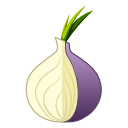
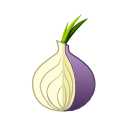
stripe is now hidden by default unless js is present, updated onion graphic

diff --git a/index.html b/index.html
@@ -115,6 +115,9 @@ display: block; min-height: 35px; padding-top: 10px;
 #stripeTxt {
  width: 60px;
  }
+.stripe {
+display: none;
+}
 </style>
 </head>
 <body>
@@ -176,6 +179,7 @@ portion of your purchase is donated to help keep us working.</p>
       var stripeSub = jQuery('option[name="stripeSub"]:selected').val();
       var stripeCur = jQuery('option[name="stripeCur"]:selected').val();
       var stripeSym;
+      jQuery('.stripe').css('display', 'initial');
       if( stripeSub != 0 ) {
 	  jQuery('.stripeTxt').css('visibility', 'hidden');
 	  jQuery('.stripeCur').css('visibility', 'hidden');
@@ -203,8 +207,8 @@ portion of your purchase is donated to help keep us working.</p>
       stripeVals();
   });
 </script>
-<div class="hundred toptwenty">
-	<div class="dbox donate stripe">
+<div class="hundred toptwenty stripe">
+	<div class="dbox donate">
     <a name="stripe"></a>
 		<h3>Donate via Stripe</h3>
 
